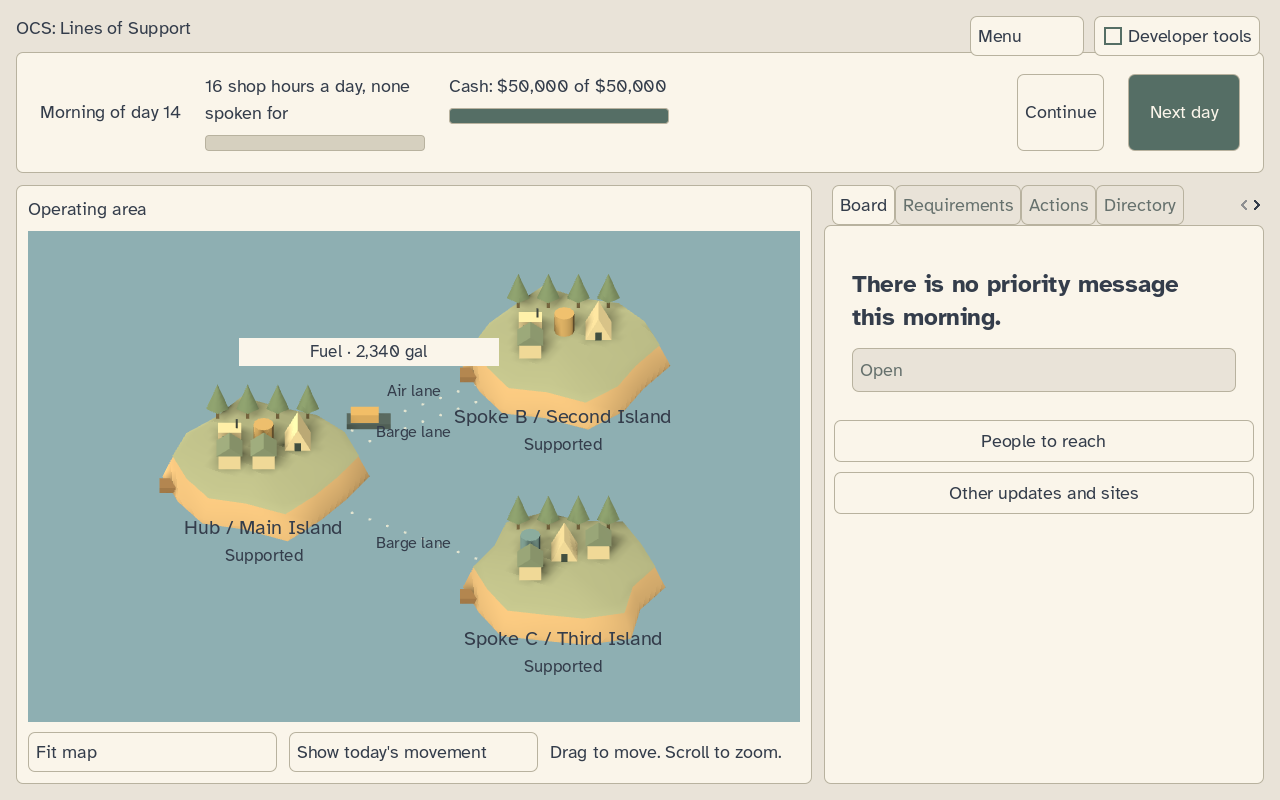
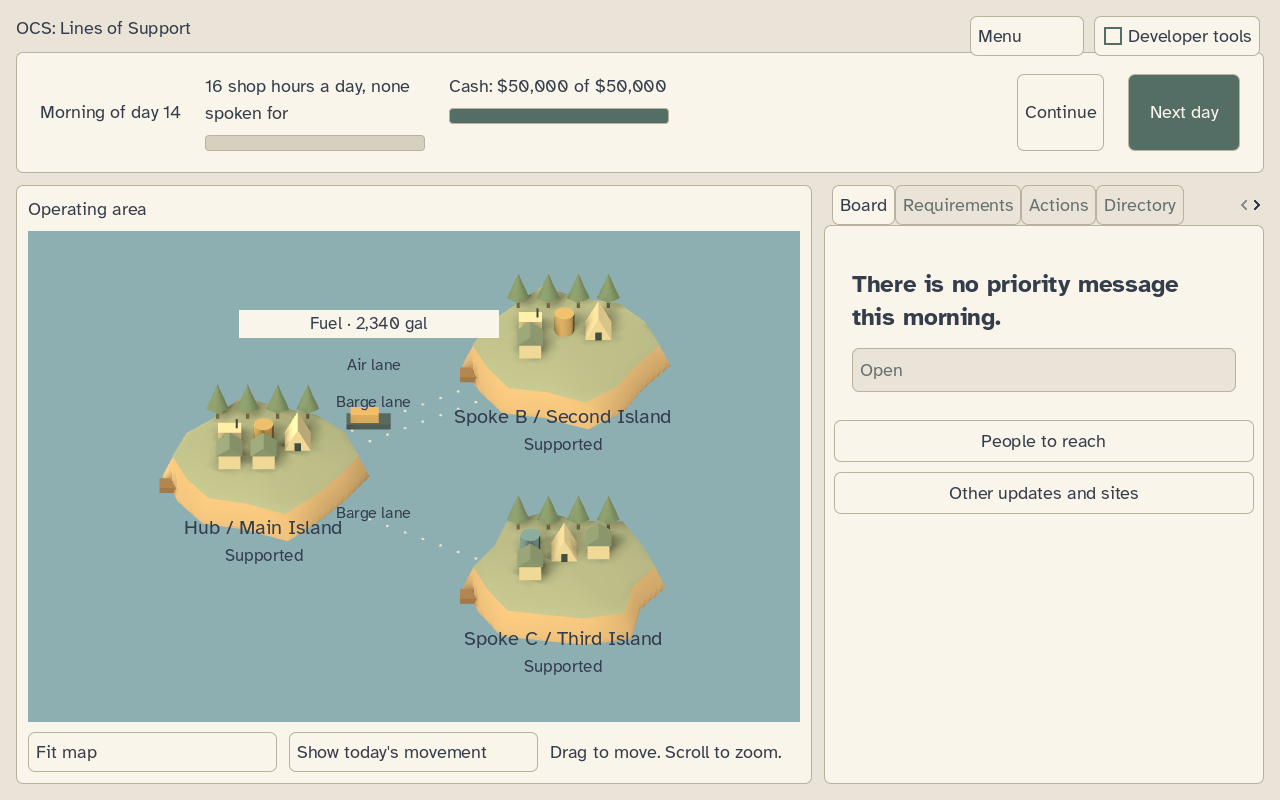
Fix native map resource lifetime and lane label spacing

Changed region(s): [[0.1875, 0.375, 0.4062, 0.5], [0.25, 0.625, 0.3438, 0.6875], [0.25, 0.5, 0.3438, 0.5625]]

diff --git a/game/board/TabletopMap3D.cs b/game/board/TabletopMap3D.cs
@@ -24,12 +24,13 @@ public partial class TabletopMap3D:Control
     internal Vector2 SitePoint(string id)=>camera.UnprojectPosition(world.ToGlobal(sites[id]+new Vector3(0,.7f,0)));
     internal void Configure(ScenarioBoardData board,IReadOnlyList<CapabilityTile> tiles,IReadOnlyList<MapLink> links,Font font,IReadOnlySet<string>? confidence=null)
     {
-        MouseFilter=MouseFilterEnum.Ignore;ClipContents=true;Theme=new Theme{DefaultFont=font,DefaultFontSize=18};
+        MouseFilter=MouseFilterEnum.Ignore;ClipContents=true;using var theme=new Theme{DefaultFont=font,DefaultFontSize=18};Theme=theme;
         capabilityTiles=tiles;
         var holder=new SubViewportContainer{Stretch=true,MouseFilter=MouseFilterEnum.Ignore};AddChild(holder);holder.SetAnchorsAndOffsetsPreset(LayoutPreset.FullRect);
         var viewport=new SubViewport{OwnWorld3D=true,Size=new Vector2I((int)Size.X,(int)Size.Y),Msaa3D=Viewport.Msaa.Msaa4X,RenderTargetUpdateMode=SubViewport.UpdateMode.Always};holder.AddChild(viewport);
         world=new Node3D();viewport.AddChild(world);
-        world.AddChild(new WorldEnvironment{Environment=new Godot.Environment{BackgroundMode=Godot.Environment.BGMode.Color,BackgroundColor=new Color("8eafb2"),AmbientLightSource=Godot.Environment.AmbientSource.Color,AmbientLightColor=new Color("eae3ce"),AmbientLightEnergy=.25f}});
+        using var environment=new Godot.Environment{BackgroundMode=Godot.Environment.BGMode.Color,BackgroundColor=new Color("8eafb2"),AmbientLightSource=Godot.Environment.AmbientSource.Color,AmbientLightColor=new Color("eae3ce"),AmbientLightEnergy=.25f};
+        world.AddChild(new WorldEnvironment{Environment=environment});
         world.AddChild(new DirectionalLight3D{RotationDegrees=new Vector3(-52,-28,0),LightColor=new Color("fff0d1"),LightEnergy=.65f,ShadowEnabled=true});
         Mesh(new PlaneMesh{Size=new Vector2(100,100)},new Vector3(0,-.15f,0),"8eafb2",true);
         var ordered=board.Islands.OrderByDescending(i=>i.IsHub).ToArray();var spokes=ordered.Length-1;
@@ -62,7 +63,7 @@ public partial class TabletopMap3D:Control
             var state=links.FirstOrDefault(l=>l.FromIslandId==route.From&&l.ToIslandId==route.To&&l.Mode==route.Mode);var closed=state?.Open==false;
             var shift=route.Mode=="aircraft"?new Vector3(0,0,-.7f):Vector3.Zero;
             for(var i=0;i<18;i++){var p=a.Lerp(b,i/17f)+shift;p.Y=-.12f;Mesh(new CylinderMesh{TopRadius=.04f,BottomRadius=.04f,Height=.02f,RadialSegments=6},p,closed?"9f4937":"e2e4d0",true);}
-            Caption(mode+" lane"+(closed?" · closed":""),(a+b)/2+shift,new Vector2(-100,route.Mode=="aircraft"?-24:0),200,16,closed?TabletopTheme.Alert:TabletopTheme.Ink);
+            Caption(mode+" lane"+(closed?" · closed":""),(a+b)/2+shift,new Vector2(-140,route.Mode=="aircraft"?-50:-30),200,16,closed?TabletopTheme.Alert:TabletopTheme.Ink);
         }
         foreach(var site in board.Sites)
         {
@@ -151,7 +152,7 @@ public partial class TabletopMap3D:Control
     {
         var label=new Label{Size=new Vector2(260,28),AutowrapMode=TextServer.AutowrapMode.WordSmart,Text=text,MouseFilter=MouseFilterEnum.Ignore,HorizontalAlignment=HorizontalAlignment.Center};
         label.AddThemeFontSizeOverride("font_size",17);label.AddThemeColorOverride("font_color",TabletopTheme.Ink);
-        label.AddThemeStyleboxOverride("normal",new StyleBoxFlat{BgColor=TabletopTheme.Paper,ContentMarginLeft=4,ContentMarginRight=4,ContentMarginTop=2,ContentMarginBottom=2});
+        using var labelStyle=new StyleBoxFlat{BgColor=TabletopTheme.Paper,ContentMarginLeft=4,ContentMarginRight=4,ContentMarginTop=2,ContentMarginBottom=2};label.AddThemeStyleboxOverride("normal",labelStyle);
         AddChild(label);movingLabels.Add((label,node));
     }
     private void Caption(string text,Vector3 point,Vector2 offset,float width,int size,Color color)
@@ -186,7 +187,10 @@ public partial class TabletopMap3D:Control
     private void Box(Vector3 point,Vector3 size,string color)=>Mesh(new BoxMesh{Size=size},point,color);
     private MeshInstance3D Mesh(Godot.Mesh mesh,Vector3 point,string color,bool unshaded=false,Node3D? parent=null)
     {
-        var material=new StandardMaterial3D{AlbedoColor=new Color(color),Roughness=1,CullMode=BaseMaterial3D.CullModeEnum.Disabled};if(unshaded)material.ShadingMode=BaseMaterial3D.ShadingModeEnum.Unshaded;
-        var result=new MeshInstance3D{Mesh=mesh,Position=point,MaterialOverride=material};(parent??world).AddChild(result);return result;
+        using(mesh)
+        {
+            using var material=new StandardMaterial3D{AlbedoColor=new Color(color),Roughness=1,CullMode=BaseMaterial3D.CullModeEnum.Disabled};if(unshaded)material.ShadingMode=BaseMaterial3D.ShadingModeEnum.Unshaded;
+            var result=new MeshInstance3D{Mesh=mesh,Position=point,MaterialOverride=material};(parent??world).AddChild(result);return result;
+        }
     }
 }

diff --git a/docs/handoffs/2026-11-09-codex-art-04.md b/docs/handoffs/2026-11-09-codex-art-04.md
@@ -25,3 +25,5 @@ Seven inherited Sim/Sim.Tests warnings. Generic equipment represents capability 
 ## Next
 
 ART-05: automatic, skippable playback after day advance, driven only by the completed MapDay snapshot. Fable reviews and merges this stack in order.
+
+CI fix pass: Linux exposed a native shutdown/finalizer crash while the theme regression exercised the new 3D board. Temporary mesh/material/environment/theme/style handles now use explicit disposal after native ownership. Local theme and graphical Map reruns exit cleanly; lane captions moved clear of site names and renders refreshed. No simulation changes.
